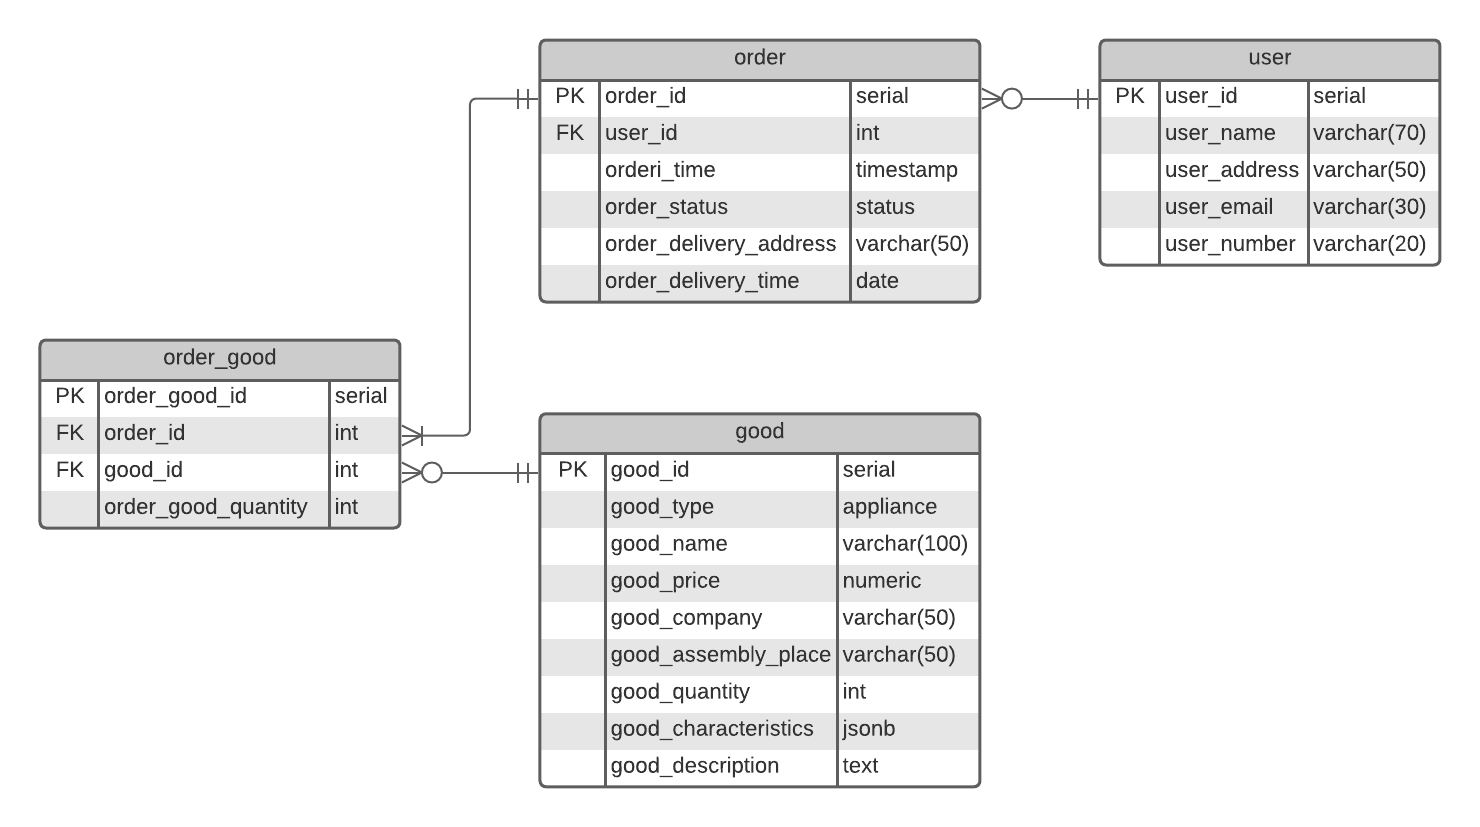
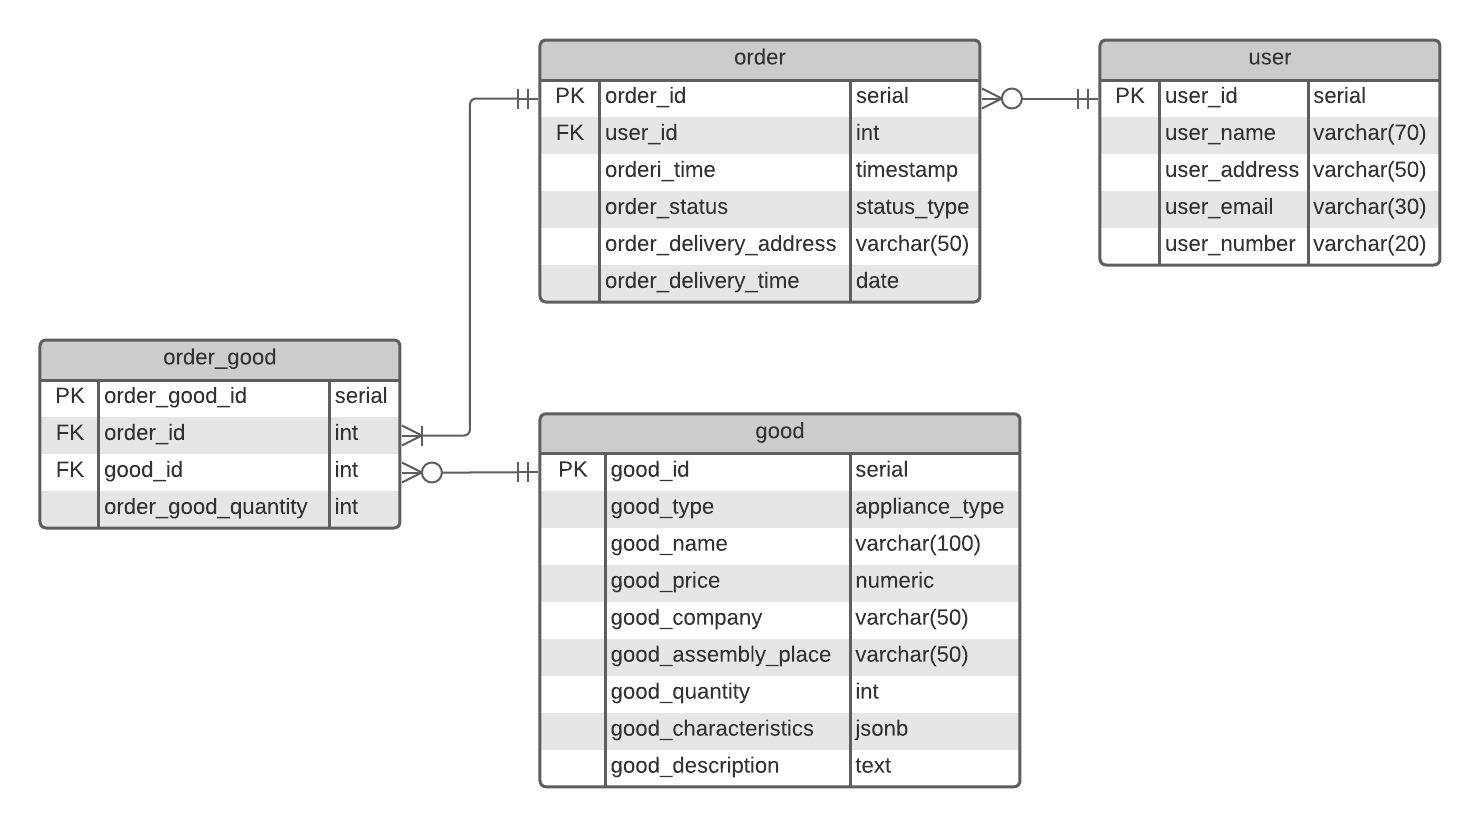
Rename appliance & status types to appliance_type & status_type respectively

diff --git a/README.md b/README.md
@@ -7,8 +7,8 @@
 
 ![ER](images/er.png)
 
-* ***appliance*** - перечислимый тип, возможные значения: *{ 'coffee_maker', 'cooktop', 'fridge', 'microwave', 'tv', 'vacuum_cleaner', 'washer' }* (при необходимости можно добавить новые)  
-* ***status*** - перечислимый тип; возможные значения: *{ 'complete', 'delivered', 'processing' }*
+* ***appliance_type*** - перечислимый тип, возможные значения: *{ 'coffee_maker', 'cooktop', 'fridge', 'microwave', 'tv', 'vacuum_cleaner', 'washer' }* (при необходимости можно добавить новые)  
+* ***status_type*** - перечислимый тип; возможные значения: *{ 'complete', 'delivered', 'processing' }*
 
 ## Описание страниц сайта
 
